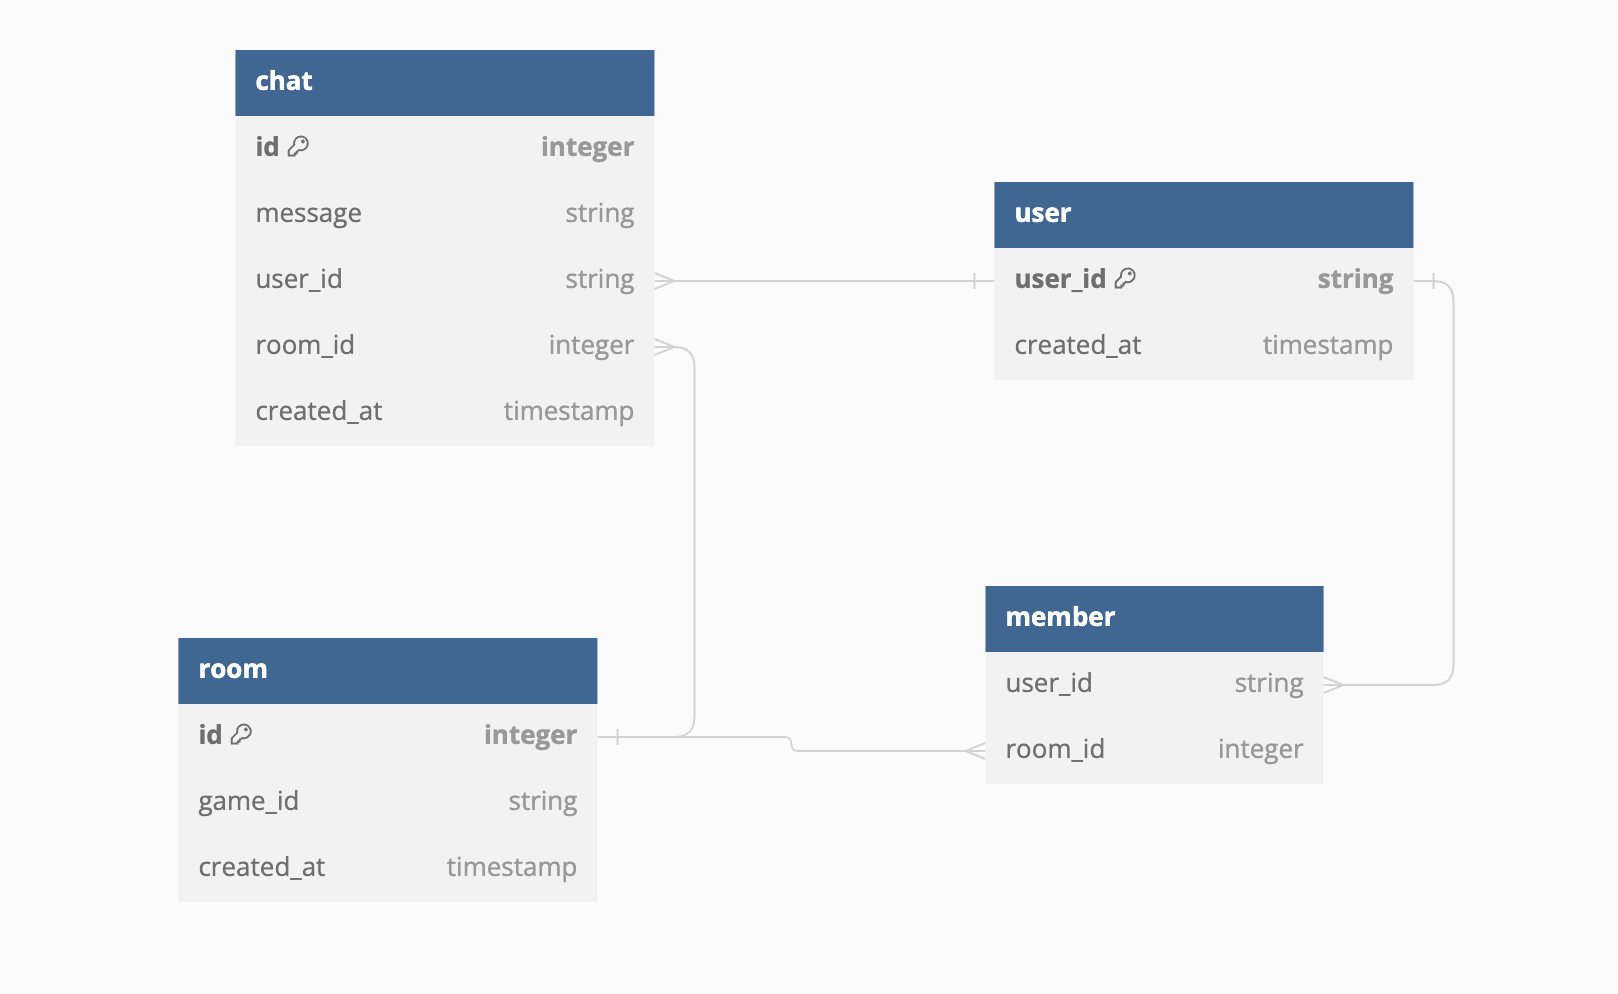
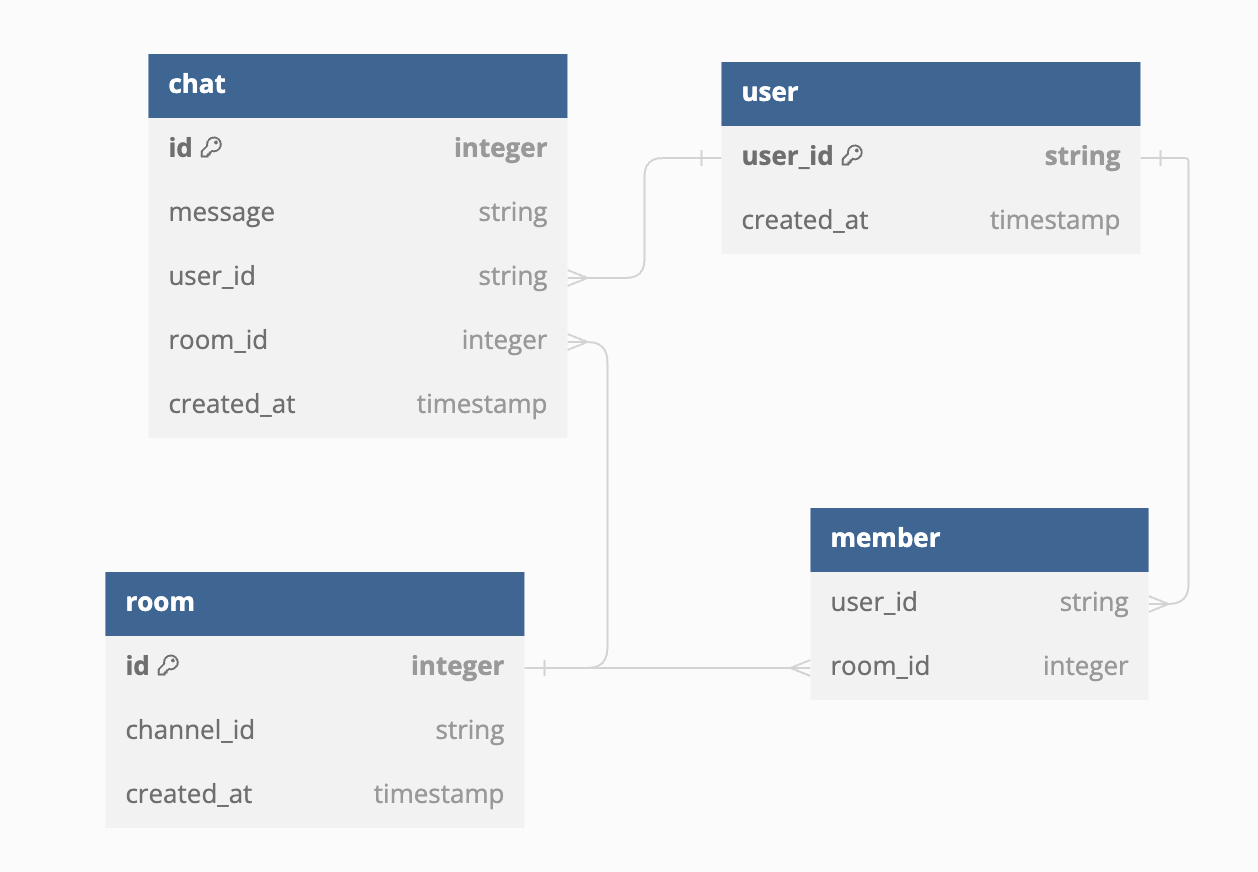
rename 'game' to 'channel'

diff --git a/assets/js/app.js b/assets/js/app.js
@@ -39,14 +39,14 @@ const url = new URL(window.location.href);
 // Extract the query parameters
 const params = new URLSearchParams(url.search);
 
-// Get the user_id and game_id
+// Get the user_id and channel_id
 const userId = params.get('user_id');
-const gameId = params.get('game_id');
+const channelId = params.get('channel_id');
 
-console.log("User ID " + userId, " join game:" + gameId);
+console.log("User ID " + userId, " join channel:" + channelId);
 
 // Now that you are connected, you can join channels with a topic:
-let channel = liveSocket.channel("game:" + gameId, {params: {user_id: userId}})
+let channel = liveSocket.channel("channel:" + channelId, {params: {user_id: userId}})
 
 let chatInput = document.querySelector("#chat-input")
 

diff --git a/README.md b/README.md
@@ -8,9 +8,9 @@ To start your Phoenix server:
   * Run `mix ecto.migrate` to runs the repository migratio
   * Start Phoenix endpoint with `mix phx.server` or inside IEx with `iex -S mix phx.server`
 
-Now you can visit [`[localhost:4000](http://localhost:4000/chat_room?user_id=john&game_id=game_1)`](http://localhost:4000/chat_room?user_id=john&game_id=game_1) from your browser.
+Now you can visit [`[localhost:4000](http://localhost:4000/chat_room?user_id=john&channel_id=game_1)`](http://localhost:4000/chat_room?user_id=john&channel_id=game_1) from your browser.
 
-+ `http://localhost:4000/chat_room?user_id=john&game_id=game_1`
++ `http://localhost:4000/chat_room?user_id=john&channel_id=game_1`
 
 + `game_1` is room and `john` is user
 
@@ -57,12 +57,12 @@ sequenceDiagram
     participant user_online_component
     participant messages_component
     User1->>chat_room_live_view: Mount page (1)
-    Note right of chat_room_live_view: PubSub.subscribe(topic::game_id)
+    Note right of chat_room_live_view: PubSub.subscribe(topic::channel_id)
     chat_room_live_view->>user_online_component: update all users in room ([users]) (2)
     chat_room_live_view->>messages_component: update all history message of room ([user, message]) (3)
     Note right of User1: app.js
     User1->>game_channel: User1 joins channel (game)
-    Note right of game_channel: PubSub.broadcast(topic::game_id)
+    Note right of game_channel: PubSub.broadcast(topic::channel_id)
     game_channel->>chat_room_live_view: PubSub sends join_room
     chat_room_live_view->>user_online_component: do notthing
 ```
@@ -86,7 +86,7 @@ sequenceDiagram
     Note right of game_channel: Same as 1, 2, 3 step of first user joins room
     Note right of User2: app.js
     User2->>game_channel: User2 joins channel (game)
-    Note right of game_channel: PubSub.broadcast(topic::game_id)
+    Note right of game_channel: PubSub.broadcast(topic::channel_id)
     par Parallelly
     game_channel->>chat_room_live_view (2): PubSub sends join_room
     chat_room_live_view (2)->>user_online_component (2): do notthing
@@ -114,7 +114,7 @@ sequenceDiagram
     end
     Note right of User2: app.js
     User2->>game_channel: User sends message via channel (game)
-    Note right of game_channel: PubSub.broadcast(topic::game_id)
+    Note right of game_channel: PubSub.broadcast(topic::channel_id)
     par Parallelly
     game_channel->>chat_room_live_view (2): PubSub sends send_msg
     chat_room_live_view (2)->>messages_component (2): update all messages
@@ -146,7 +146,7 @@ sequenceDiagram
     Note right of User1: phx-submit event
     User1->>chat_room_live_view (1): User adds another user to room
     Note over chat_room_live_view (1): handle_event
-    Note right of chat_room_live_view (1): PubSub.broadcast(topic::game_id)
+    Note right of chat_room_live_view (1): PubSub.broadcast(topic::channel_id)
     par Parallelly
     chat_room_live_view (1)->>chat_room_live_view (1): PubSub sends add users
     chat_room_live_view (1)->>user_online_component (1): update all users in room
@@ -180,7 +180,7 @@ sequenceDiagram
     end
     User1->>game_channel (1): User leaves room
     Note over game_channel (1): handle_in
-    Note right of game_channel (1): PubSub.broadcast (topic::game_id)
+    Note right of game_channel (1): PubSub.broadcast (topic::channel_id)
     par Parallelly
     game_channel (1) ->> chat_room_live_view (1): PubSub sends user leaves room
     Note over chat_room_live_view (1): handle_info
